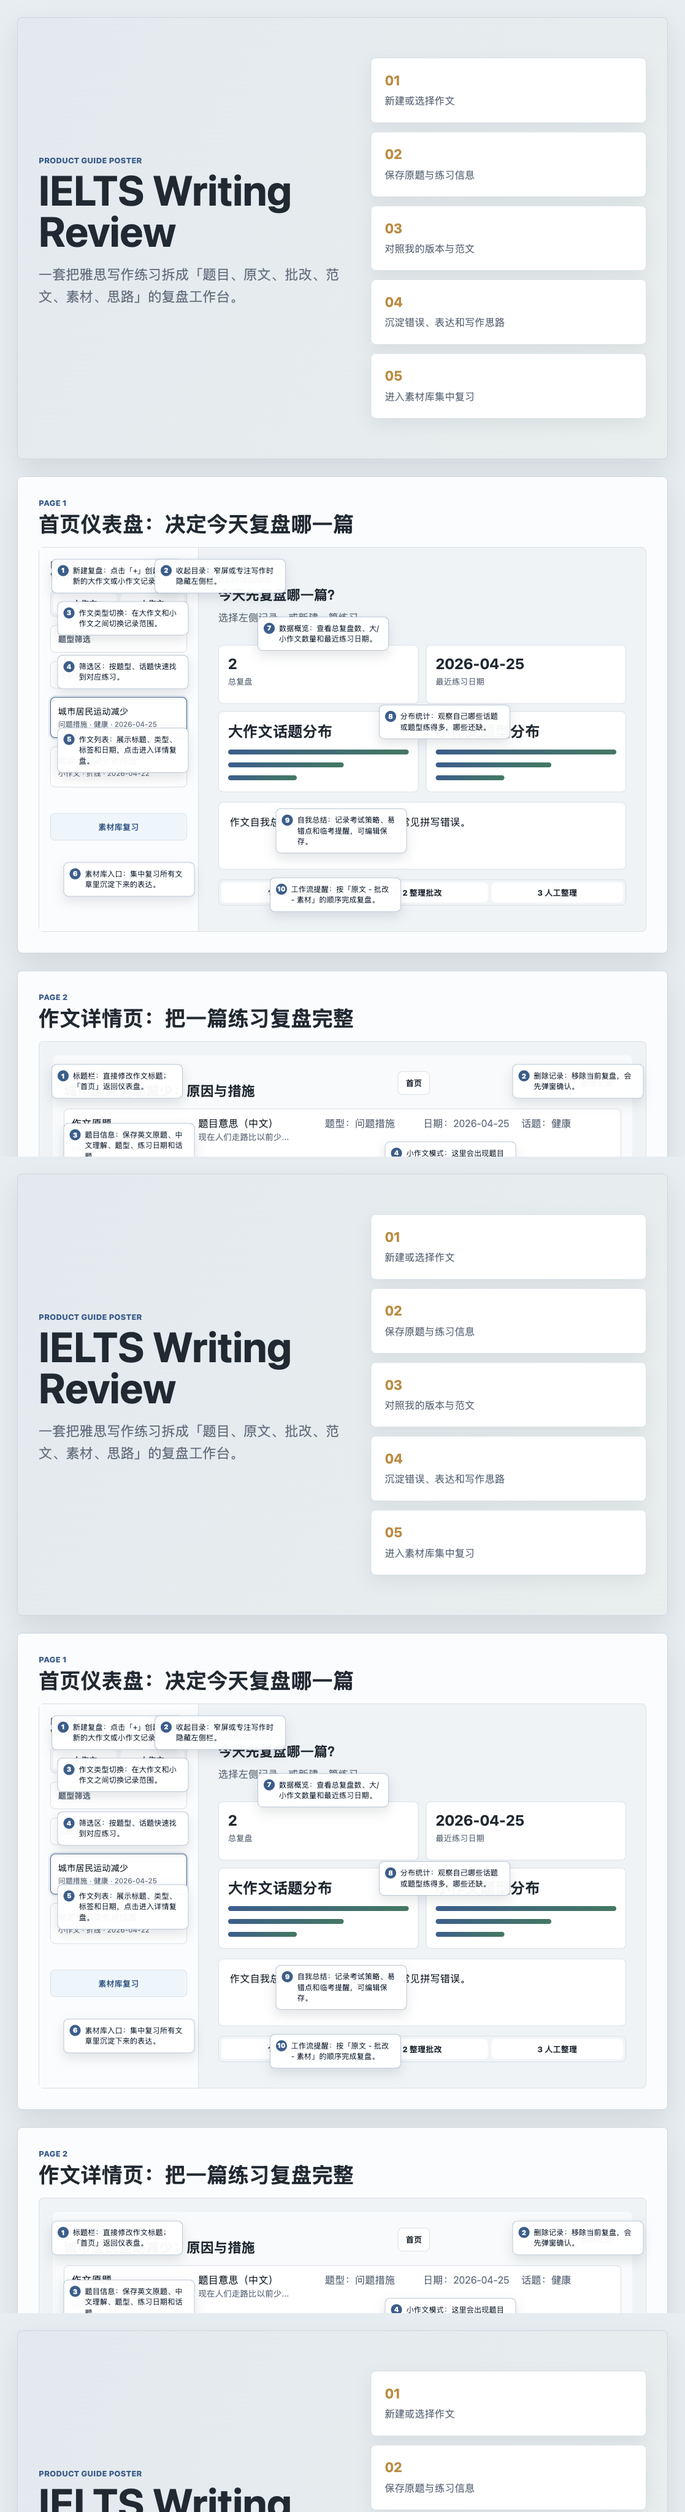
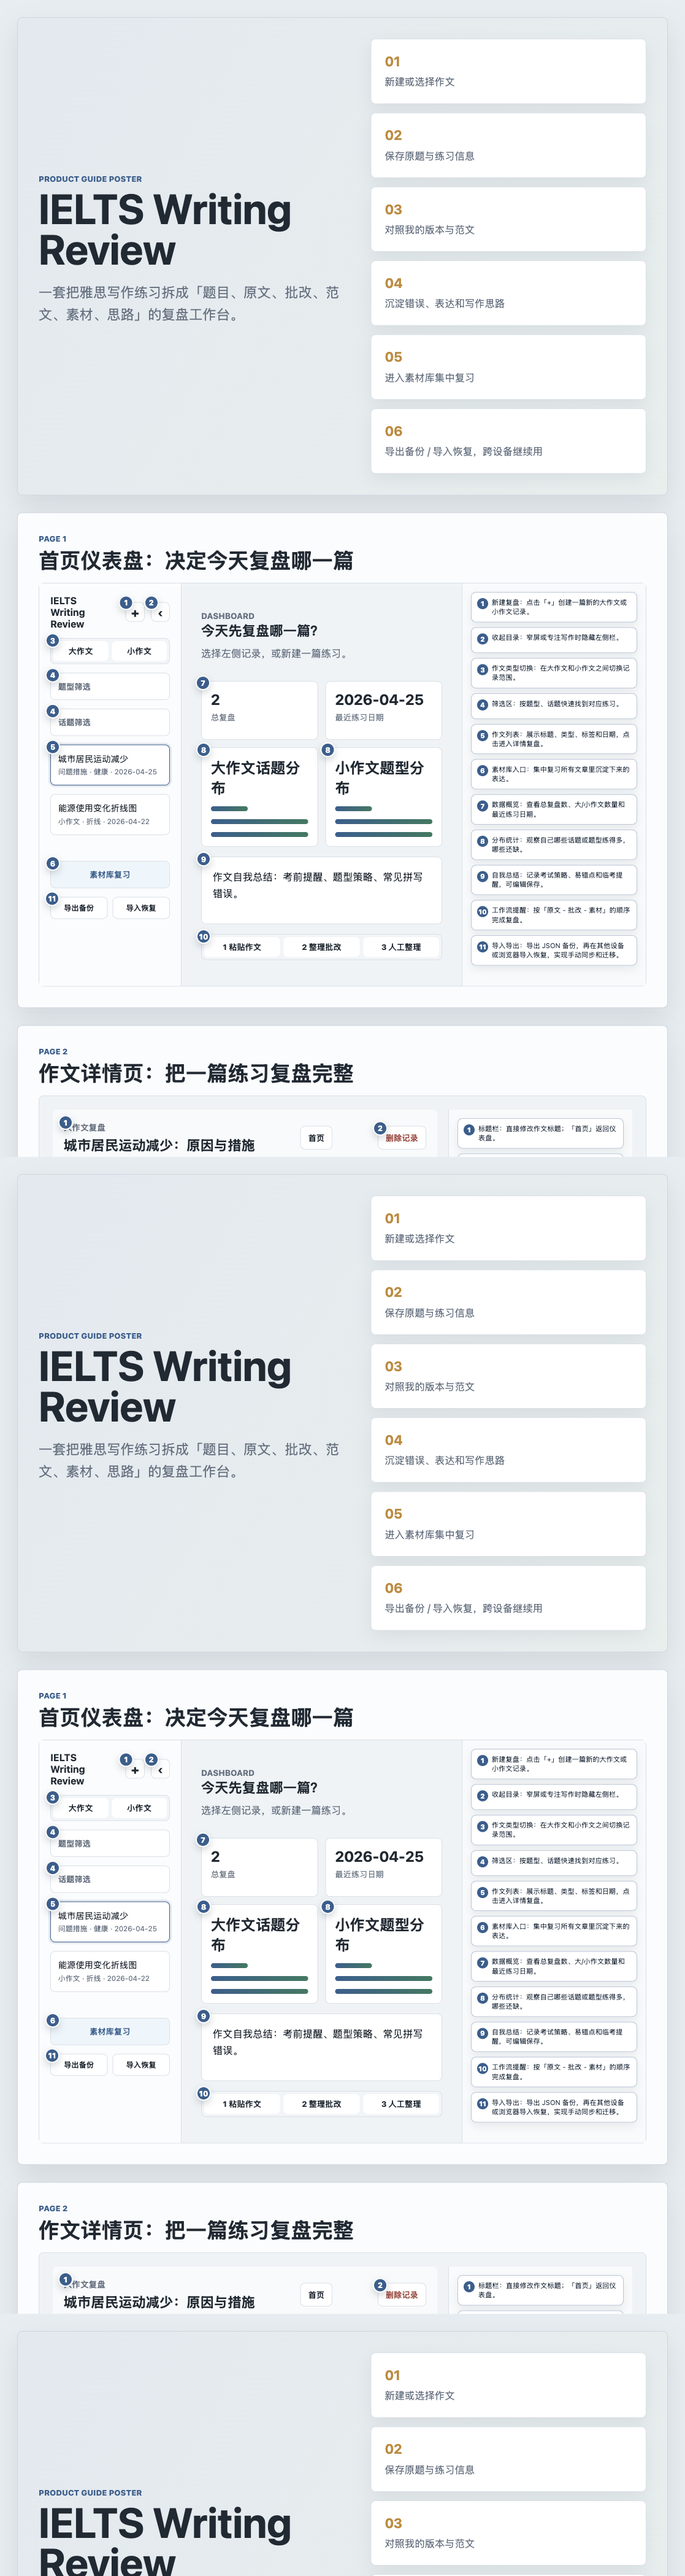
Add Umami analytics

diff --git a/poster.html b/poster.html
@@ -20,6 +20,7 @@
           <div><b>03</b><span>对照我的版本与范文</span></div>
           <div><b>04</b><span>沉淀错误、表达和写作思路</span></div>
           <div><b>05</b><span>进入素材库集中复习</span></div>
+          <div><b>06</b><span>导出备份 / 导入恢复，跨设备继续用</span></div>
         </div>
       </section>
 
@@ -32,15 +33,16 @@
           <aside class="mock-sidebar">
             <div class="brand-row">
               <strong>IELTS<br />Writing Review</strong>
-              <span class="circle">+</span>
-              <span class="circle">‹</span>
+              <span class="circle marked"><i class="note-mark">1</i>+</span>
+              <span class="circle marked"><i class="note-mark">2</i>‹</span>
             </div>
-            <div class="tabs"><span>大作文</span><span>小作文</span></div>
-            <div class="field-pill">题型筛选</div>
-            <div class="field-pill">话题筛选</div>
-            <div class="entry active">城市居民运动减少<br /><small>问题措施 · 健康 · 2026-04-25</small></div>
+            <div class="tabs marked"><i class="note-mark">3</i><span>大作文</span><span>小作文</span></div>
+            <div class="field-pill marked"><i class="note-mark">4</i>题型筛选</div>
+            <div class="field-pill marked"><i class="note-mark">4</i>话题筛选</div>
+            <div class="entry active marked"><i class="note-mark">5</i>城市居民运动减少<br /><small>问题措施 · 健康 · 2026-04-25</small></div>
             <div class="entry">能源使用变化折线图<br /><small>小作文 · 折线 · 2026-04-22</small></div>
-            <div class="library-button">素材库复习</div>
+            <div class="library-button marked"><i class="note-mark">6</i>素材库复习</div>
+            <div class="backup-row marked"><i class="note-mark">11</i><span>导出备份</span><span>导入恢复</span></div>
           </aside>
           <section class="mock-workspace">
             <div class="hero-copy">
@@ -48,14 +50,16 @@
               <h3>今天先复盘哪一篇？</h3>
               <p>选择左侧记录，或新建一篇练习。</p>
             </div>
-            <div class="metric-grid">
+            <div class="metric-grid marked">
+              <i class="note-mark">7</i>
               <div><b>2</b><span>总复盘</span></div>
               <div><b>2026-04-25</b><span>最近练习日期</span></div>
-              <div class="wide"><b>大作文话题分布</b><i></i><i></i><i></i></div>
-              <div class="wide"><b>小作文题型分布</b><i></i><i></i><i></i></div>
+              <div class="wide marked"><i class="note-mark">8</i><b>大作文话题分布</b><i></i><i></i><i></i></div>
+              <div class="wide marked"><i class="note-mark">8</i><b>小作文题型分布</b><i></i><i></i><i></i></div>
             </div>
-            <div class="summary-box">作文自我总结：考前提醒、题型策略、常见拼写错误。</div>
-            <div class="workflow">
+            <div class="summary-box marked"><i class="note-mark">9</i>作文自我总结：考前提醒、题型策略、常见拼写错误。</div>
+            <div class="workflow marked">
+              <i class="note-mark">10</i>
               <span>1 粘贴作文</span>
               <span>2 整理批改</span>
               <span>3 人工整理</span>
@@ -72,6 +76,7 @@
             <li style="--x: 56%; --y: 41%">分布统计：观察自己哪些话题或题型练得多，哪些还缺。</li>
             <li style="--x: 39%; --y: 68%">自我总结：记录考试策略、易错点和临考提醒，可编辑保存。</li>
             <li style="--x: 38%; --y: 86%">工作流提醒：按「原文 - 批改 - 素材」的顺序完成复盘。</li>
+            <li>导入导出：导出 JSON 备份，再在其他设备或浏览器导入恢复，实现手动同步和迁移。</li>
           </ol>
         </div>
       </section>
@@ -83,29 +88,32 @@
         </header>
         <div class="annotated-layout detail-layout">
           <section class="detail-screen">
-            <div class="topbar">
+            <div class="topbar marked">
+              <i class="note-mark">1</i>
               <div><small>大作文复盘</small><h3>城市居民运动减少：原因与措施</h3></div>
-              <span>首页</span><span class="danger">删除记录</span>
+              <span>首页</span><span class="danger marked"><i class="note-mark">2</i>删除记录</span>
             </div>
-            <div class="prompt-card">
+            <div class="prompt-card marked">
+              <i class="note-mark">3</i>
               <div>作文原题<br /><small>People are walking less than before...</small></div>
               <div>题目意思（中文）<br /><small>现在人们走路比以前少...</small></div>
               <div class="meta">题型：问题措施</div>
               <div class="meta">日期：2026-04-25</div>
-              <div class="meta">话题：健康</div>
+              <div class="meta marked"><i class="note-mark">4</i>话题：健康</div>
             </div>
             <div class="essay-grid">
-              <div><b>我的版本</b><em>分数 5.5 · 42 words</em><p>Nowadays, people walk less than before...</p></div>
-              <div><b>范文版本</b><em>分数 7 · 47 words</em><p>In many cities, walking has become...</p></div>
+              <div class="marked"><i class="note-mark">5</i><b>我的版本</b><em>分数 5.5 · 42 words</em><p>Nowadays, people walk less than before...</p></div>
+              <div class="marked"><i class="note-mark">6</i><b>范文版本</b><em>分数 7 · 47 words</em><p>In many cities, walking has become...</p></div>
             </div>
-            <div class="legend"><span>好表达</span><span>错误</span><span>逻辑</span><span>搭配</span></div>
-            <div class="correction-table">
+            <div class="legend marked"><i class="note-mark">7</i><span>好表达</span><span>错误</span><span>逻辑</span><span>搭配</span></div>
+            <div class="correction-table marked">
+              <i class="note-mark">8</i>
               <b>错误标注</b>
               <div>原句/问题</div><div>修改建议</div><div>个人批注</div><div>问题类型</div>
             </div>
             <div class="bottom-grid">
-              <div><b>素材沉淀</b><p>固定搭配 / 同义替换 / 句型 / 陌生词 / 主题论据 / 重点摘记</p></div>
-              <div><b>思路与结构</b><p>整体思路、论点与论据，Task 1 会切换为概括段和细节段安排。</p></div>
+              <div class="marked"><i class="note-mark">9</i><b>素材沉淀</b><p>固定搭配 / 同义替换 / 句型 / 陌生词 / 主题论据 / 重点摘记</p></div>
+              <div class="marked"><i class="note-mark">10</i><b>思路与结构</b><p>整体思路、论点与论据，Task 1 会切换为概括段和细节段安排。</p></div>
             </div>
           </section>
           <ol class="callouts">
@@ -130,23 +138,25 @@
         </header>
         <div class="annotated-layout library-layout">
           <section class="library-screen">
-            <div class="topbar">
+            <div class="topbar marked">
+              <i class="note-mark">1</i>
               <div><small>Review Bank</small><h3>素材库复习</h3></div>
               <span>返回首页</span>
             </div>
             <div class="controls">
-              <div class="tabs"><span>大作文</span><span>小作文</span></div>
-              <div class="field-pill">话题 / 题型筛选</div>
+              <div class="tabs marked"><i class="note-mark">2</i><span>大作文</span><span>小作文</span></div>
+              <div class="field-pill marked"><i class="note-mark">3</i>话题 / 题型筛选</div>
             </div>
-            <div class="bank-tabs">
+            <div class="bank-tabs marked">
+              <i class="note-mark">4</i>
               <span>固定搭配</span><span>同义替换</span><span>句型</span><span>陌生词</span><span>主题论据</span><span>重点摘记</span>
             </div>
             <div class="library-cards">
-              <article><b>城市居民运动减少</b><small>健康 · 2026-04-25</small><p>a multi-pronged approach<br />pedestrian-only zones</p></article>
-              <article><b>能源使用变化折线图</b><small>折线 · 2026-04-22</small><p>a marked rise<br />a steady decline</p></article>
+              <article class="marked"><i class="note-mark">5</i><b>城市居民运动减少</b><small>健康 · 2026-04-25</small><p>a multi-pronged approach<br />pedestrian-only zones</p></article>
+              <article class="marked"><i class="note-mark">6</i><b>能源使用变化折线图</b><small>折线 · 2026-04-22</small><p>a marked rise<br />a steady decline</p></article>
               <article><b>更多素材卡片</b><small>按日期倒序</small><p>每张卡片来自一篇作文的对应素材分类。</p></article>
             </div>
-            <div class="pagination">上一页 · 第 1 / N 页 · 下一页</div>
+            <div class="pagination marked"><i class="note-mark">7</i>上一页 · 第 1 / N 页 · 下一页</div>
           </section>
           <ol class="callouts">
             <li style="--x: 3%; --y: 7%">返回首页：从素材复习回到仪表盘。</li>

diff --git a/poster.css b/poster.css
@@ -127,7 +127,7 @@ h3 {
 }
 
 .annotated-layout {
-  position: relative;
+  display: grid;
   min-height: 620px;
   border: 1px solid var(--line);
   border-radius: 8px;
@@ -135,8 +135,7 @@ h3 {
 }
 
 .home-layout {
-  display: grid;
-  grid-template-columns: 260px 1fr;
+  grid-template-columns: 232px minmax(0, 1fr) 300px;
 }
 
 .mock-sidebar,
@@ -153,6 +152,14 @@ h3 {
   padding: 18px;
   border-right: 1px solid var(--line);
   background: #fbfcfd;
+}
+
+.home-layout .mock-sidebar {
+  grid-column: 1;
+}
+
+.home-layout .mock-workspace {
+  grid-column: 2;
 }
 
 .brand-row,
@@ -229,6 +236,24 @@ h3 {
   font-weight: 720;
 }
 
+.backup-row {
+  display: grid;
+  grid-template-columns: 1fr 1fr;
+  gap: 8px;
+}
+
+.backup-row span {
+  display: grid;
+  min-height: 36px;
+  place-items: center;
+  border: 1px solid var(--line);
+  border-radius: 8px;
+  background: #fff;
+  color: var(--ink);
+  font-size: 12px;
+  font-weight: 760;
+}
+
 .entry {
   padding: 12px;
   font-size: 14px;
@@ -302,7 +327,7 @@ h3 {
   min-height: 132px;
 }
 
-.metric-grid i {
+.metric-grid i:not(.note-mark) {
   display: block;
   height: 8px;
   margin-top: 13px;
@@ -310,11 +335,11 @@ h3 {
   background: linear-gradient(90deg, var(--blue), var(--green));
 }
 
-.metric-grid i:nth-child(3) {
+.metric-grid i:not(.note-mark):nth-of-type(1) {
   width: 64%;
 }
 
-.metric-grid i:nth-child(4) {
+.metric-grid i:not(.note-mark):nth-of-type(2) {
   width: 38%;
 }
 
@@ -330,7 +355,9 @@ h3 {
 
 .detail-layout,
 .library-layout {
+  grid-template-columns: minmax(0, 1fr) 300px;
   padding: 22px;
+  gap: 18px;
 }
 
 .detail-screen,
@@ -361,9 +388,24 @@ h3 {
 
 .prompt-card {
   display: grid;
-  grid-template-columns: 1fr 1fr 150px 150px 150px;
+  grid-template-columns: repeat(6, minmax(0, 1fr));
   gap: 10px;
   padding: 12px;
+}
+
+.prompt-card > div {
+  min-width: 0;
+}
+
+.prompt-card > div:nth-child(1),
+.prompt-card > div:nth-child(2) {
+  grid-column: span 3;
+}
+
+.prompt-card > div:nth-child(3),
+.prompt-card > div:nth-child(4),
+.prompt-card > div:nth-child(5) {
+  grid-column: span 2;
 }
 
 .prompt-card small {
@@ -481,27 +523,33 @@ h3 {
 }
 
 .callouts {
-  position: absolute;
-  inset: 0;
+  position: static;
+  display: grid;
+  align-content: start;
+  gap: 8px;
+  min-width: 0;
   margin: 0;
-  padding: 0;
+  padding: 14px;
   list-style: none;
-  pointer-events: none;
+  border-left: 1px solid var(--line);
+  background: rgba(251, 252, 253, 0.72);
+  counter-reset: note;
 }
 
 .callouts li {
-  position: absolute;
-  left: var(--x);
-  top: var(--y);
-  width: 214px;
-  padding: 9px 10px 10px 34px;
+  position: relative;
+  left: auto;
+  top: auto;
+  width: auto;
+  min-height: 42px;
+  padding: 8px 9px 9px 33px;
   border: 1px solid rgba(49, 95, 143, 0.35);
   border-radius: 8px;
   background: rgba(255, 255, 255, 0.96);
-  box-shadow: 0 8px 18px rgba(24, 38, 54, 0.12);
+  box-shadow: 0 6px 14px rgba(24, 38, 54, 0.08);
   color: #243242;
-  font-size: 12px;
-  line-height: 1.45;
+  font-size: 11px;
+  line-height: 1.38;
   counter-increment: note;
 }
 
@@ -519,6 +567,35 @@ h3 {
   color: #fff;
   font-size: 11px;
   font-weight: 800;
+}
+
+.marked {
+  position: relative;
+}
+
+.note-mark {
+  position: absolute;
+  z-index: 3;
+  left: -9px;
+  top: -9px;
+  display: grid;
+  width: 24px;
+  height: 24px;
+  place-items: center;
+  border: 2px solid #fff;
+  border-radius: 50%;
+  background: var(--blue);
+  color: #fff;
+  box-shadow: 0 5px 12px rgba(24, 38, 54, 0.2);
+  font-size: 12px;
+  font-style: normal;
+  font-weight: 850;
+  line-height: 1;
+}
+
+.circle .note-mark {
+  left: -12px;
+  top: -12px;
 }
 
 .shortcut-grid {
@@ -593,16 +670,7 @@ h3 {
   }
 
   .callouts {
-    position: static;
-    display: grid;
-    gap: 8px;
-    padding: 14px;
-  }
-
-  .callouts li {
-    position: relative;
-    left: auto;
-    top: auto;
-    width: auto;
+    border-top: 1px solid var(--line);
+    border-left: 0;
   }
 }
